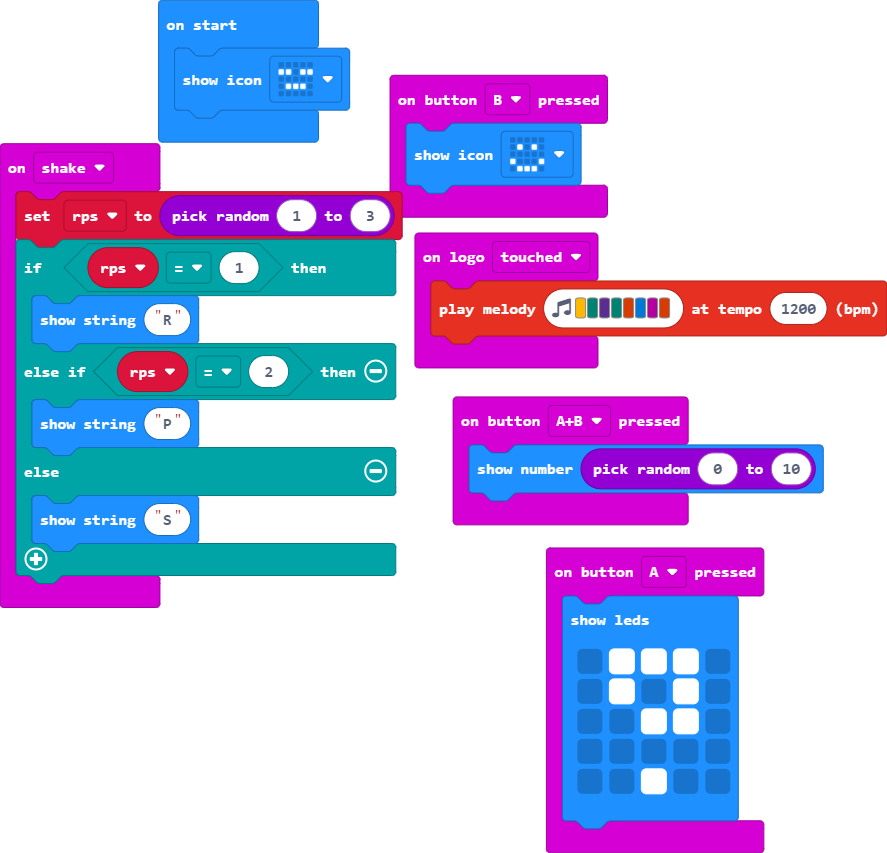
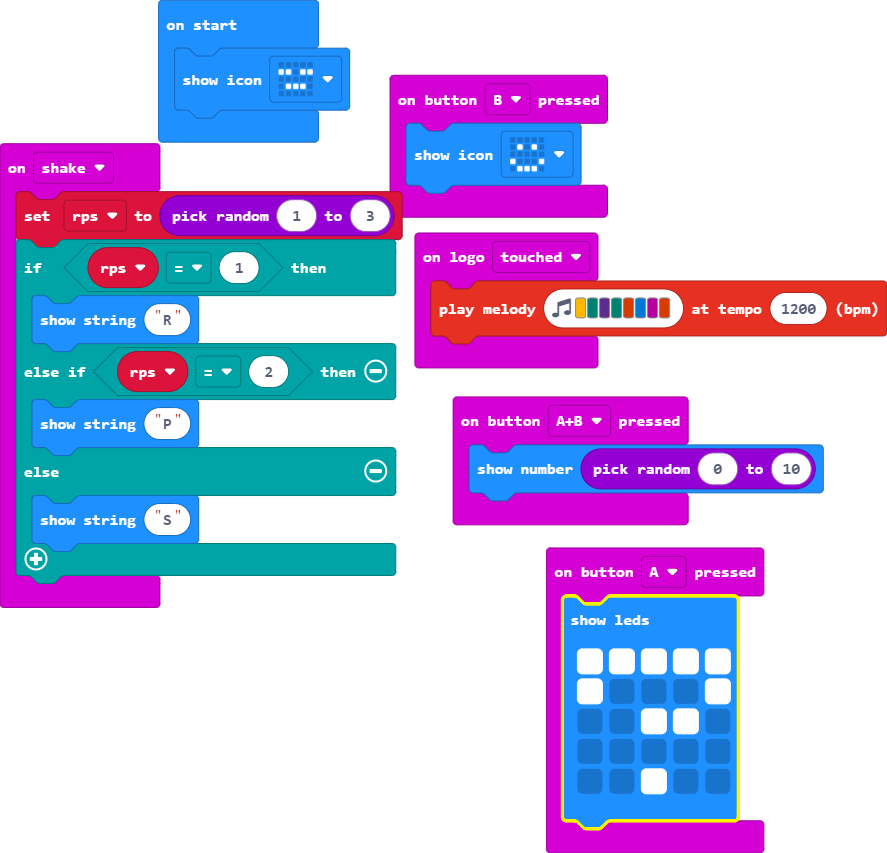
Update main.blocks, main.ts

Changed region(s): [[0.6392, 0.7011, 0.8523, 0.9754], [0.6088, 0.7011, 0.7306, 0.9449], [0.7001, 0.6706, 0.8219, 0.7011]]

diff --git a/main.ts b/main.ts
@@ -1,7 +1,7 @@
 input.onButtonPressed(Button.A, function () {
     basic.showLeds(`
-        . # # # .
-        . # . # .
+        # # # # #
+        # . . . #
         . . # # .
         . . . . .
         . . # . .
